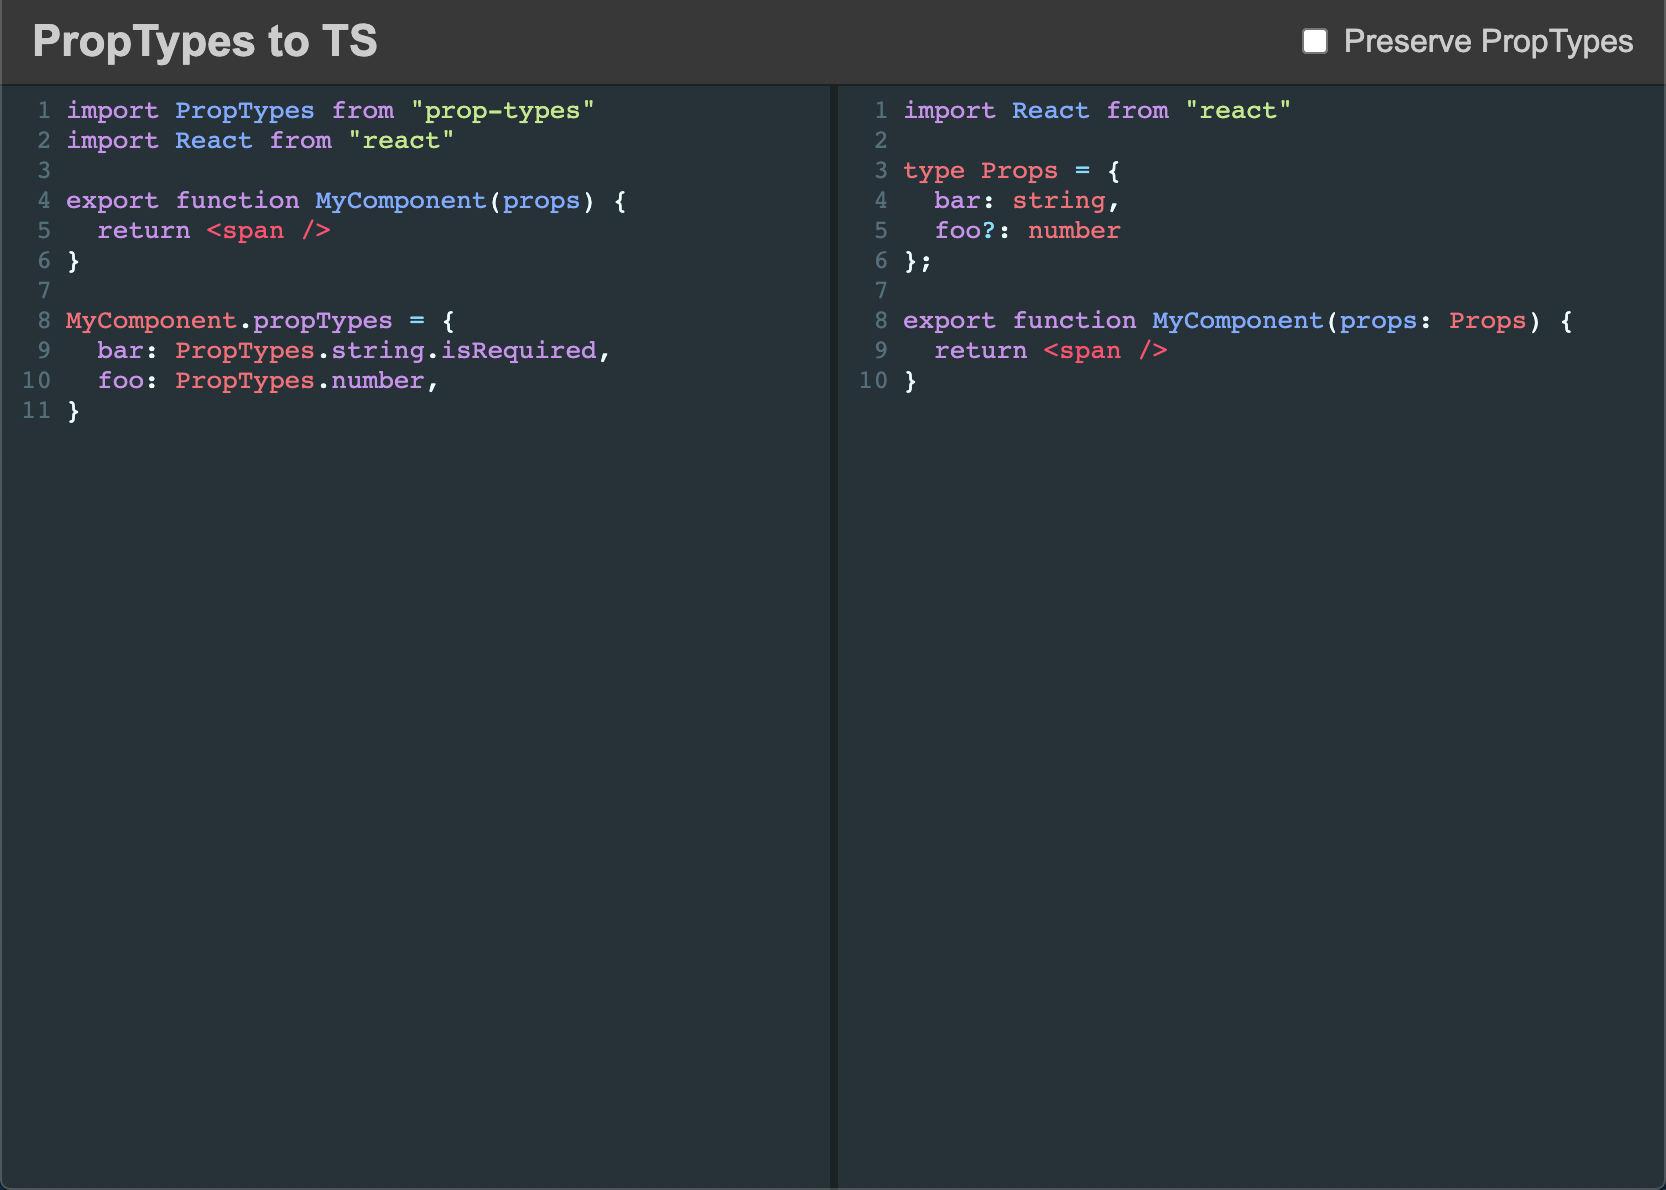
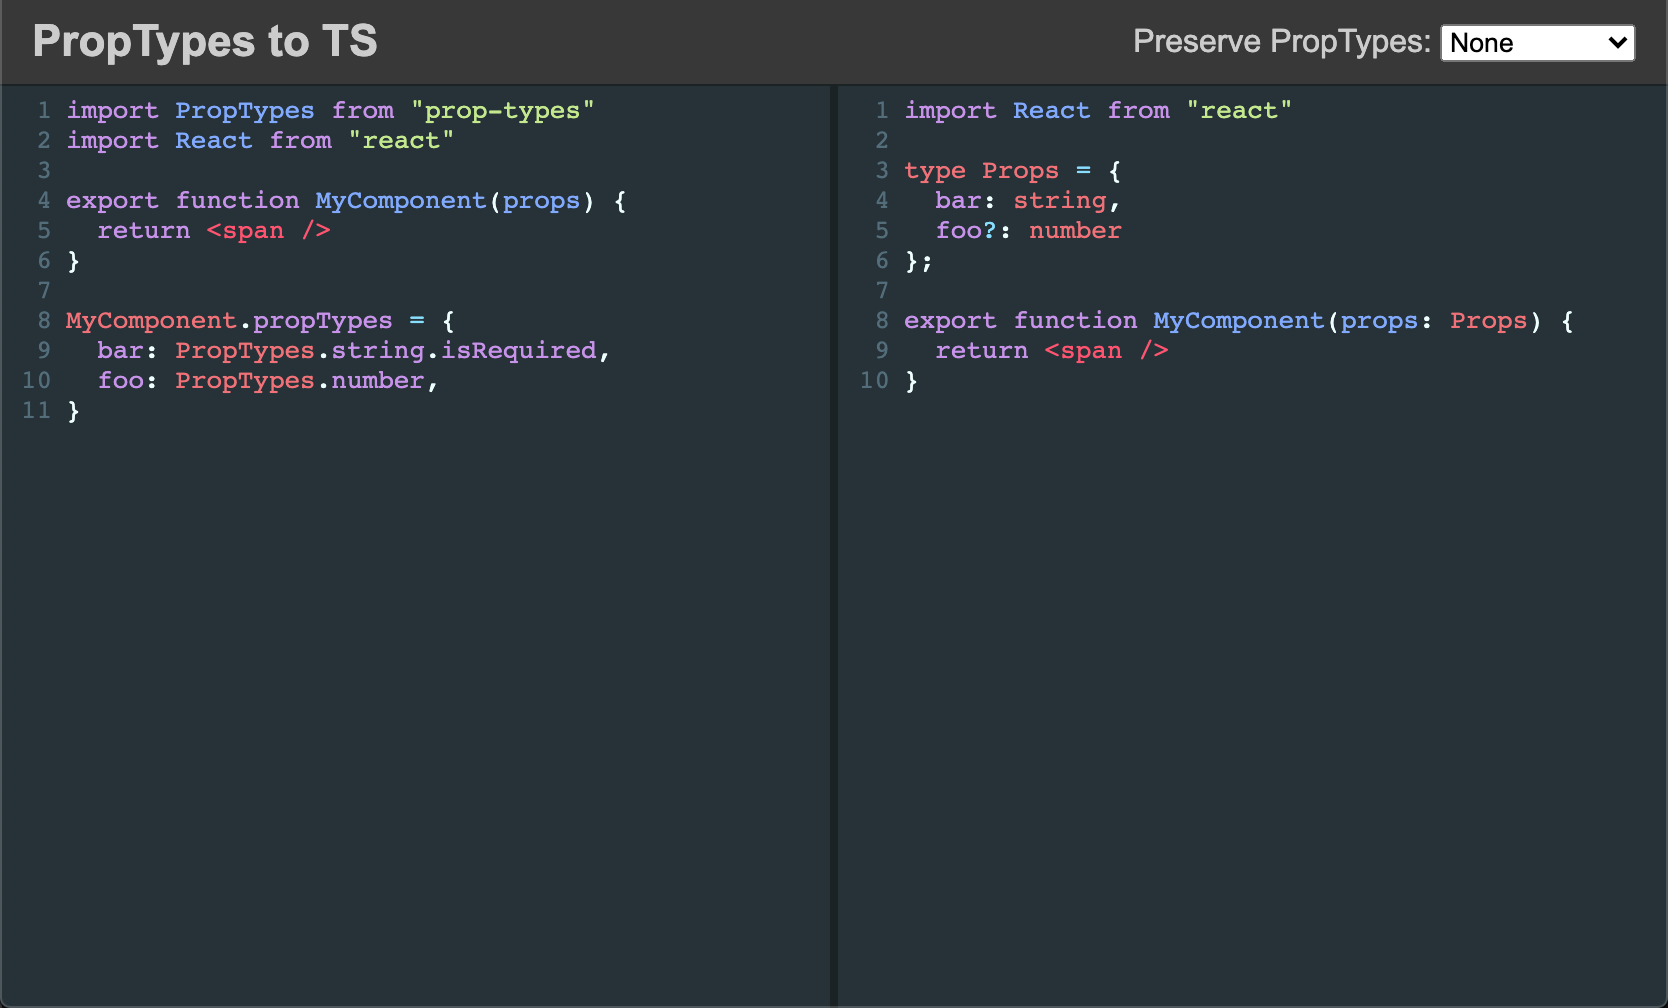
Update screenshot

diff --git a/README.md b/README.md
@@ -27,7 +27,7 @@ npx jscodeshift -t https://raw.githubusercontent.com/mskelton/prop-types-to-ts/m
 
 In addition to the CLI, you can use the tool online at [prop-types.now.sh](https://prop-types.now.sh)! Simply paste your input on the left and instantly see the output on the right!
 
-[![Screenshot](web/screenshot.png)](https://prop-types.now.sh)
+[![Screenshot](web/screenshot.png?v=1)](https://prop-types.now.sh)
 
 ## Example Input/Output
 
